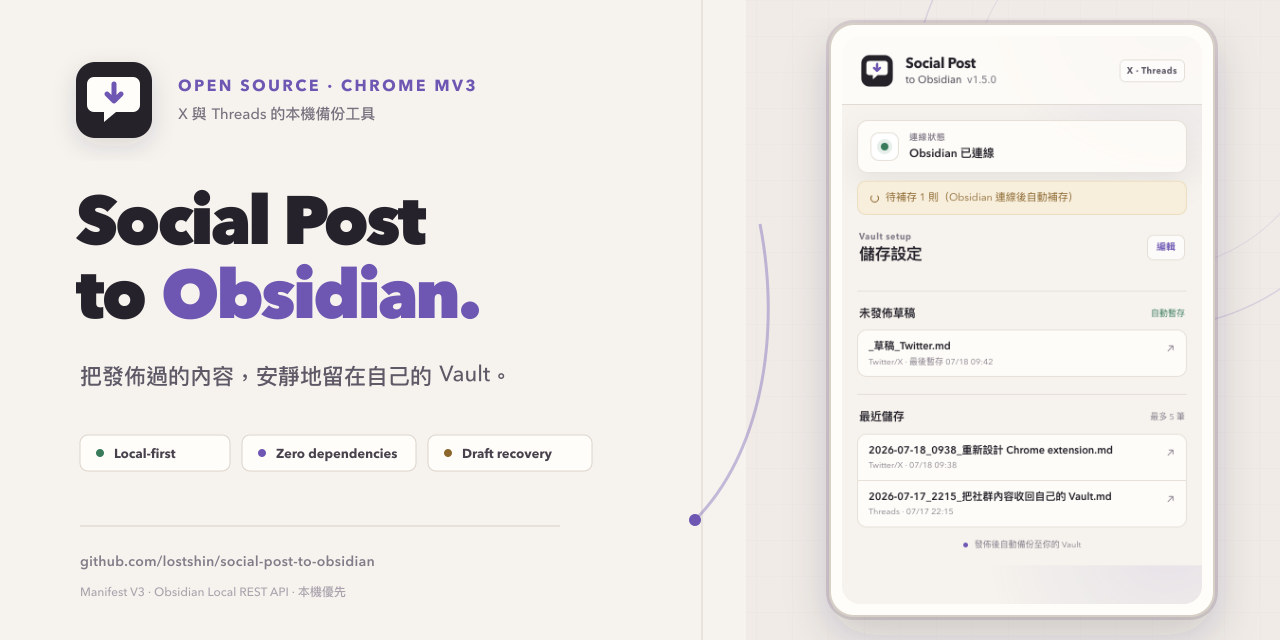
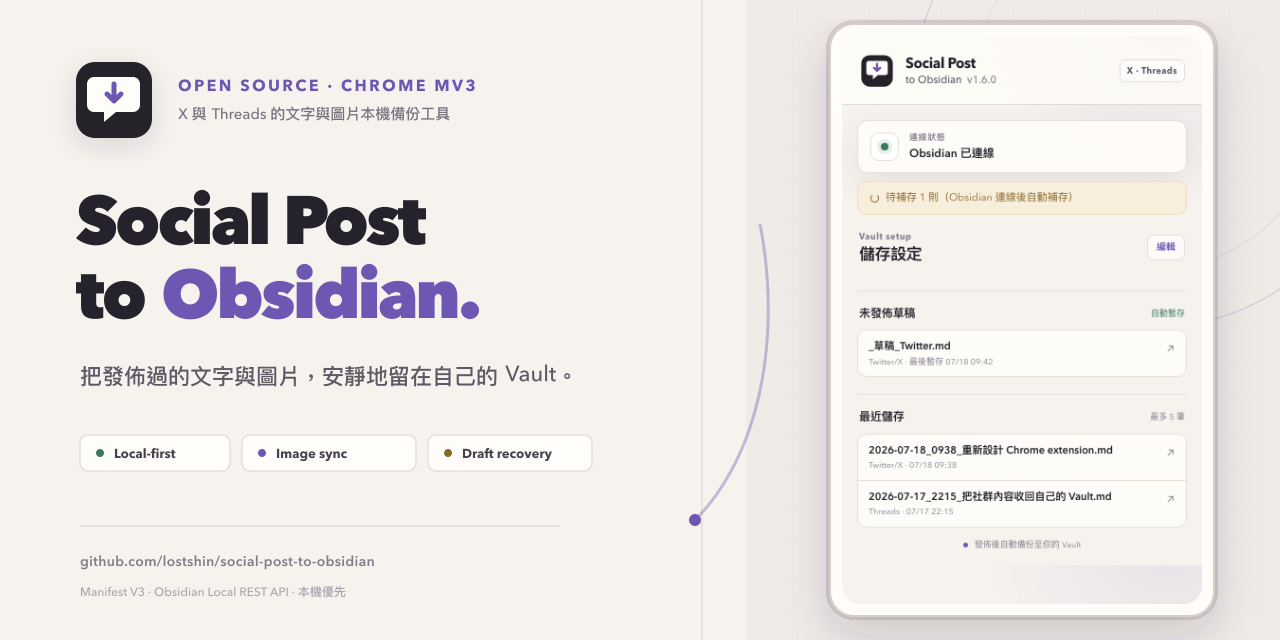
Add MIT license and project documentation

Changed region(s): [[0.1562, 0.5625, 0.4375, 0.625], [0.2188, 0.1562, 0.375, 0.1875], [0.2188, 0.6875, 0.3125, 0.7188]]

diff --git a/README.md b/README.md
@@ -1,0 +1,102 @@
+<p align="center">
+  <img src="icons/logo.svg" width="88" height="88" alt="Social Post to Obsidian logo">
+</p>
+
+<h1 align="center">Social Post to Obsidian</h1>
+
+<p align="center">
+  發佈 X 與 Threads 貼文後，自動將文字與圖片備份到自己的 Obsidian Vault。
+</p>
+
+![Social Post to Obsidian 預覽](assets/social-preview.png)
+
+## 功能
+
+- 發佈 X 或 Threads 貼文後自動建立 Markdown 筆記
+- 將貼文圖片下載到 Vault，並用相對路徑嵌入筆記
+- 支援 X 多圖與 Threads 單圖、輪播圖及純圖片貼文
+- 保留來源網址、發佈時間、回覆關係與引用貼文
+- 打字時暫存草稿，發佈後自動清除草稿檔
+- Obsidian 未開啟時加入離線佇列，恢復連線後自動補存
+- Popup 顯示連線狀態、未發佈草稿與最近儲存紀錄
+- 無第三方 JavaScript 依賴、無雲端服務、無分析追蹤
+
+## 儲存結果
+
+預設路徑為 `個人創作/社群推文`。每則貼文會產生一個 Markdown 檔，圖片則存放在同一層的專屬附件資料夾：
+
+```text
+個人創作/社群推文/
+├── 2026-07-18_1100_圖片同步測試.md
+└── _assets/
+    └── 2026-07-18_1100_圖片同步測試/
+        ├── image-01.jpg
+        └── image-02.webp
+```
+
+Markdown 使用標準相對連結：
+
+```markdown
+![圖片說明](<_assets/2026-07-18_1100_圖片同步測試/image-01.jpg>)
+```
+
+若個別圖片下載失敗，文字筆記仍會正常儲存，並暫時保留該圖片的遠端網址。
+
+## 使用需求
+
+- Google Chrome 或其他支援 Manifest V3 的 Chromium 瀏覽器
+- [Obsidian](https://obsidian.md/)
+- Obsidian 社群外掛 [Local REST API](https://github.com/coddingtonbear/obsidian-local-rest-api)
+
+## 安裝
+
+目前採用開發者模式安裝：
+
+1. 下載或 clone 此 repository。
+2. 在 Chrome 開啟 `chrome://extensions/`。
+3. 開啟右上角的「開發人員模式」。
+4. 選擇「載入未封裝項目」，指定本專案資料夾。
+5. 更新版本後，請在擴充功能頁重新載入，並重新整理已開啟的 X／Threads 分頁。
+
+## 設定
+
+1. 在 Obsidian 安裝並啟用 Local REST API。
+2. 從該外掛設定複製 API Key。
+3. 開啟擴充功能 Popup，貼上 API Key。
+4. 設定連接埠：HTTP 預設為 `27123`，HTTPS 為 `27124`。
+5. 視需要調整 Vault 內的存檔路徑，按下「儲存設定」並測試連線。
+
+## 權限與隱私
+
+所有貼文資料都由瀏覽器直接寫入本機 Obsidian Local REST API，不會傳送到本專案的伺服器，也沒有遙測或分析服務。
+
+擴充功能使用的主要權限如下：
+
+- `storage`：儲存 Local REST API 設定、離線佇列與最近存檔紀錄
+- `notifications`：在原始分頁不存在時回報存檔結果
+- `alarms`：定期重試離線佇列
+- `127.0.0.1`：連接本機 Obsidian Local REST API
+- X 與 Meta 圖片 CDN：下載使用者剛發佈貼文中的圖片
+
+API Key 儲存在 Chrome 的 extension local storage。請勿分享包含個人設定的瀏覽器設定檔。
+
+## 已知限制
+
+- 目前同步靜態圖片；影片與動態 GIF 不會下載到 Vault。
+- X 與 Threads 的內部 API 結構可能改變；若平台更新造成解析失效，請提交 issue 並附上平台、操作步驟與擴充功能版本，避免貼出 API Key 或私人貼文內容。
+- 離線時間過長時，Threads 的簽章圖片網址可能失效；此時筆記仍會保存，但圖片可能只能留下原始遠端連結。
+
+## 開發與驗證
+
+本專案使用原生 JavaScript、HTML 與 CSS，不需要安裝 package。提交前請執行：
+
+```bash
+node scripts/validate-extension.mjs
+node tests/media-sync.test.mjs
+```
+
+驗證內容包含 Manifest 與資產完整性、所有 JavaScript 語法，以及 X／Threads 圖片解析、Vault 二進位寫入、失敗降級與離線重試。
+
+## 授權
+
+本專案採用 [MIT License](LICENSE)。